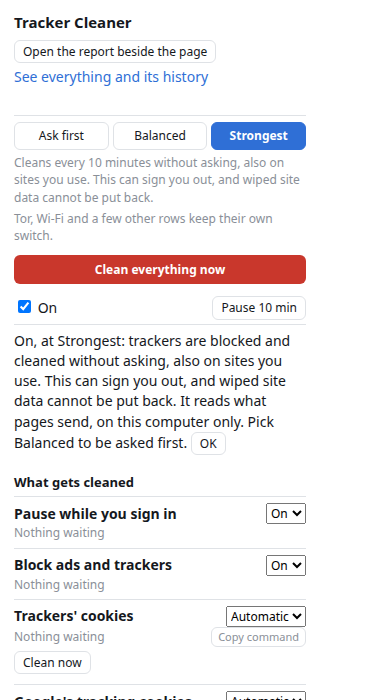
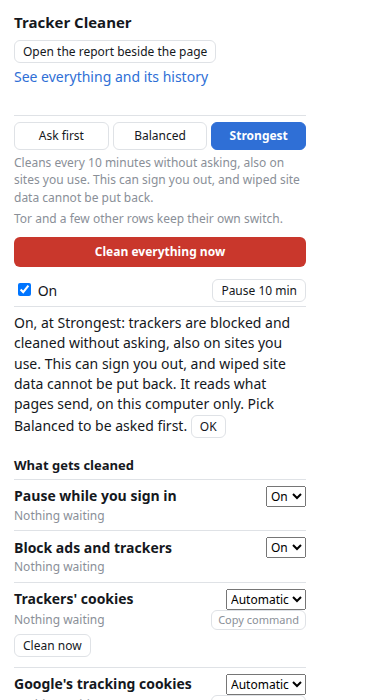
Docs for 1.32.1: one-table scorecard generated by tools/scorecard.js, PLAN.md moved to docs/build-log.md, README
- docs/scorecard.md: one table, T1..T36 and H1..H10, Strongest with no press and every question answered yes,
  written by tools/scorecard.js from lab/misses.json and lab/ff2-misses.json (both re-measured with 1.32.1:
  trip 35 of 36; A 7, AB 25, Q 5 at the end; hidden collector 6/10 stopped, as with 1.32).
- PLAN.md is docs/build-log.md, with a closing 1.32.1 section; references updated.
- README, docs/rows.md, docs/tools.md: no Wi-Fi, no git.sh, no extension-1.20, version 1.32.1, 735 tests.
- docs/popup.png retaken from 1.32.1 (the own-switch line no longer names Wi-Fi).

Changed region(s): [[0.0289, 0.3, 0.8105, 1.0], [0.55, 0.69, 0.8105, 0.93], [0.5789, 0.96, 0.8105, 1.0]]

diff --git a/tools/scorecard.js b/tools/scorecard.js
@@ -1,0 +1,55 @@
+#!/usr/bin/env node
+'use strict';
+// Writes docs/scorecard.md from what the lab trips measured: lab/misses.json (node test/lab/trip-cleaner.js) and
+// lab/ff2-misses.json (node test/lab/ff2-trip.js). Run it after both trips:  node tools/scorecard.js
+const fs = require('node:fs'), path = require('node:path');
+const root = path.join(__dirname, '..'), read = (f) => JSON.parse(fs.readFileSync(path.join(root, f), 'utf8'));
+
+// the short name of each way, in the words of the README
+const NAMES = {
+  T1: 'Browser cookie', T2: 'Sign-in cookie seen on other sites', T3: 'Tracking-kit cookie per site', T4: 'Click-ID cookie',
+  T5: 'Redirector cookie', T6: 'Matched pair of IDs between two companies', T7: 'Disguised subdomain', T8: 'Like-button frame cookie',
+  T9: 'ID in local storage', T10: 'Tab journey in session storage', T11: 'ID in IndexedDB', T12: 'ID in cache storage',
+  T13: 'Service worker holding the ID', T14: 'Storage totals', T15: 'Saved script with an ID', T16: 'Cache tag on an image',
+  T17: 'Compiled copy of the kit', T18: 'Saved site icons', T19: 'History and visited links', T20: 'Remembered servers',
+  T21: 'Forced-HTTPS list', T22: 'Notification permission', T23: 'Page address and referrer', T24: 'IP address, browser, language',
+  T25: 'Computed fingerprint', T26: 'Events with values', T27: 'Hashed e-mail', T28: 'Page-close beacon', T29: 'Outgoing-click ping',
+  T30: 'Redirect log', T31: "Like and share on the test network's own page", T32: '"Sign in with Testbook"',
+  T33: "Purchase reported by the shop's server", T34: 'Push subscription', T35: 'Typing and mouse rhythm', T36: 'Probe of programs on your computer',
+  F1: "Site's own ID cookie", F2: 'ID kept without a cookie, sent to the collector', F3: 'ID carried in the link between sites',
+  F4: 'Scripted hand-off between sites', F5: "Click record on the site's own server", F6: 'Fingerprint used to join sites',
+  F7: 'Cookie set during a sign-in', F8: 'Page address and referrer', F9: 'Probe of programs on your computer', F10: 'Cache tag on an image',
+};
+const FOLLOWS = '**still follows you**';
+
+function scorecard(misses, ff2) {
+  if (misses.extension !== ff2.extension) throw new Error(`the two trips measured different versions: ${misses.extension} and ${ff2.extension}`);
+  // one cell of the lab's table: what a run says of a way at the end
+  const cell = (run, id) => { const r = run.rows[id], c = run.counts;
+    if (!r || r.status === 'not built') return 'not built';
+    if (String(r.status).startsWith('kept on purpose')) return 'kept on purpose';
+    if (r.atEnd && !(c.simulated || []).includes(id)) return FOLLOWS;
+    return r.status === 'unlinked' ? 'arrives, not tied to you' : 'stopped'; };
+  const strong = misses.runs.A, yes = misses.runs.Q, ids = Object.keys(NAMES).filter((id) => id.startsWith('T'));
+  const rows = ids.map((id) => [id, NAMES[id], cell(strong, id), cell(yes, id)]);
+  for (const [run, col] of [[strong, 2], [yes, 3]]) {
+    const n = rows.filter((r) => r[col] === FOLLOWS).length;
+    if (n !== run.counts.atEnd) throw new Error(`${n} rows still follow, but the trip counted ${run.counts.atEnd}`); }
+  // the hidden collector: measured with everything on; it raises no question, so a yes changes nothing
+  if (ff2.questionsRaised) throw new Error('the hidden-collector trip raised questions: the yes column needs its own run');
+  for (const f of ff2.rows) { const v = f.stoppedGoingForward ? 'stopped' : FOLLOWS; rows.push(['H' + f.id.slice(1), NAMES[f.id], v, v]); }
+  const built = ids.length - ids.filter((id) => cell(strong, id) === 'not built').length;
+  return ['# Scorecard', '', '<!-- generated by tools/scorecard.js from lab/misses.json and lab/ff2-misses.json; do not edit by hand -->', '',
+    `Measured with version ${misses.extension} in a real Chrome against the local test lab in \`lab/\`: ${ids.length} ways a pretend social`
+      + ` network follows a visitor (T), and ${ff2.of} ways of a hidden collector behind each site's own address (H).`,
+    `Still following you at the end, at Strongest with no press: ${strong.counts.atEnd} of the ${built} T ways built and ${ff2.survives} of`
+      + ` ${ff2.of} H; with every question answered yes: ${yes.counts.atEnd} and ${ff2.survives}.`,
+    'The H ways are stopped from the moment the cleaner has seen the same code on two sites; the first contact always gets through.', '',
+    '| # | Way of following you | Strongest, no press | Every question answered yes |', '|---|---|---|---|',
+    ...rows.map((r) => `| ${r.join(' | ')} |`), ''].join('\n');
+}
+module.exports = { scorecard };
+if (require.main === module) {
+  fs.writeFileSync(path.join(root, 'docs', 'scorecard.md'), scorecard(read('lab/misses.json'), read('lab/ff2-misses.json')));
+  console.log('written: docs/scorecard.md');
+}

diff --git a/test/registry.test.js b/test/registry.test.js
@@ -1,11 +1,11 @@
 const test = require('node:test'), assert = require('node:assert'), fs = require('fs'), path = require('path');
 const { CAPS, GROUPS, cap, mayRun } = require('../extension/registry.js');
 
-// the capability table in PLAN.md is the specification: | C03 | name | status | default mode |
-const table = fs.readFileSync(path.join(__dirname, '../PLAN.md'), 'utf8').split('\n').map((l) => l.match(/^\| (C\d\d) \|.*\| *([a-z/]+)[^|]*\|$/)).filter(Boolean)
+// the capability table in docs/build-log.md is the specification: | C03 | name | status | default mode |
+const table = fs.readFileSync(path.join(__dirname, '../docs/build-log.md'), 'utf8').split('\n').map((l) => l.match(/^\| (C\d\d) \|.*\| *([a-z/]+)[^|]*\|$/)).filter(Boolean)
   .map((m) => ({ id: m[1], mode: m[2] === 'n/a' ? null : m[2] }));
 
-test('every capability of PLAN.md is registered once, with the planned default mode', () => {
+test('every capability of the build log is registered once, with the planned default mode', () => {
   assert.equal(table.length, 30);   // C24 (Wi-Fi) was removed in 1.32.1
   assert.deepEqual(CAPS.map((c) => c.id), table.map((t) => t.id));
   for (const t of table) assert.equal(cap(t.id).mode, t.mode, t.id);
@@ -38,7 +38,7 @@ test('master off stops everything, including tabs, cache and Tor', () => {
   for (const c of CAPS) assert.equal(mayRun(c.id, { master: false, modes }), 'no', c.id);
 });
 test('an unknown ID never runs', () => assert.equal(mayRun('C99', { master: true, modes: { C99: 'auto' } }), 'no'));
-// PLAN.md "Wording rules": everyday words first, the technical name second in brackets and only if useful.
+// docs/build-log.md "Wording rules": everyday words first, the technical name second in brackets and only if useful.
 // Where the history page and tools/inspect.js name the same thing, the popup row uses their words.
 test('each popup row is titled in everyday words, short enough for the popup', () => {
   assert.deepEqual(GROUPS.map((g) => [g.id, g.title]), [['signin', 'Pause while you sign in'], ['blocking', 'Block ads and trackers'], ['cookies', "Trackers' cookies"], ['google', "Google's tracking cookies"], ['othercookies', 'No cookies for others'], ['othertags', 'No page address for others'], ['local', 'Protect this computer'], ['shield', 'Experimental fingerprint blur'], ['crossid', 'Codes shared across sites'], ['params', 'Clean tags from links'], ['unknown', 'Trackers on no list'], ['bounce', 'Sites that pass you on'], ['own', "Trackers' own sites"], ['storage', 'Site data you chose'], ['permissions', 'Site rights you chose'], ['cache', 'Saved copies of pages'], ['allowlist', 'Keep only listed cookies'], ['tabs', 'Limit open tabs'], ['tor', 'Hide your address with Tor'], ['server', 'Reports to this computer']]);

diff --git a/extension/shield.js b/extension/shield.js
@@ -8,7 +8,7 @@
 // replace it, and only those copies are used afterwards. The key that decides the changes is 128 random bits made
 // here, new for every page that is loaded, and never leaves this function. Which values change depends on the key
 // AND on what was drawn. Replaced functions answer like Chrome's own (name, length, "native code", no prototype).
-// It makes recognising harder, not impossible: see PLAN.md (J5) for what a determined page can still do.
+// It makes recognising harder, not impossible: see docs/build-log.md (J5) for what a determined page can still do.
 (() => {
   const imul = Math.imul, mmax = Math.max, apply = Reflect.apply, define = Object.defineProperty, describe = Object.getOwnPropertyDescriptor;
   const fmix = (h) => { h ^= h >>> 16; h = imul(h, 0x85ebca6b); h ^= h >>> 13; h = imul(h, 0xc2b2ae35); return (h ^ h >>> 16) >>> 0; };
@@ -53,7 +53,7 @@
   // M4: the F6 join-key surfaces the shield now also blurs -- the width text measures to (the installed-font probe) and
   // the screen size. The per-page key makes the value differ each load, so a cross-site join by these cannot settle;
   // the change is a few hundredths to about a pixel, below what a layout needs. matchMedia, the pixel ratio and the
-  // window's own size are left alone: a page needs them and changing them breaks it (PLAN.md). Best effort, detectable.
+  // window's own size are left alone: a page needs them and changing them breaks it (docs/build-log.md). Best effort, detectable.
   const C2P = W.CanvasRenderingContext2D, O2P = W.OffscreenCanvasRenderingContext2D, TM = W.TextMetrics && TextMetrics.prototype, wd = TM && describe(TM, 'width');
   const metric = (orig, self, args) => { const tm = apply(orig, self, args);
     try { const w = apply(wd.get, tm, []), h = prf(key, (w * 64) >>> 0, 0); define(tm, 'width', { value: w + ((h % 257) - 128) / 100, configurable: true }); } catch {} return tm; };

diff --git a/test/ordering.test.js b/test/ordering.test.js
@@ -4,7 +4,7 @@
 // Set-Cookie in onHeadersReceived, while the structural rule C29 (net-rules.js) strips Set-Cookie on third-party
 // responses. Whether the extension's own onHeadersReceived sees the header before or after its own DNR strip is a
 // Chrome ordering detail the Node fake does not model. This test pins the code path as it is today; the real-Chrome
-// ordering is stated in PLAN.md as a known limitation, to be settled (and fixed if needed) in a later batch.
+// ordering is stated in docs/build-log.md as a known limitation, to be settled (and fixed if needed) in a later batch.
 const test = require('node:test'), assert = require('node:assert'), load = require('./load-background.js');
 const on = (o = {}) => ({ ...o, storage: { master: true, cacheClearedAt: 1.8e12, ...o.storage } });
 const answer = async (bg, host, page) => { await bg.answer({ url: `https://${host}/a`, initiator: `https://www.${page}`, type: 'script', responseHeaders: [{ name: 'Set-Cookie', value: 'tid=t-77ab12cd34ef; SameSite=None; Secure' }] }); await bg.settle(); };
@@ -24,5 +24,5 @@ test('the same Set-Cookie header is what C29 removes on a third-party response, 
   const r = netRules({ cookies: true })[0];
   assert.ok((r.action.responseHeaders || []).some((h) => h.header === 'set-cookie' && h.operation === 'remove'), 'C29 removes set-cookie third-party');
   // documented, not asserted about real Chrome: if the strip runs before the extension's own onHeadersReceived, e.ck
-  // never becomes true for a third party and this one-sighting path cannot fire on the wire. See PLAN.md.
+  // never becomes true for a third party and this one-sighting path cannot fire on the wire. See docs/build-log.md.
 });

diff --git a/test/browser/run.js b/test/browser/run.js
@@ -522,7 +522,7 @@ async function main() {
   process.exit(failed ? 1 : 0);
 }
 
-// ---- third run, fresh profile: what Chrome really does for the "to verify" items of PLAN.md ("Todo for 1.22").
+// ---- third run, fresh profile: what Chrome really does for the "to verify" items of docs/build-log.md ("Todo for 1.22").
 // These checks report (FOUND: ...); one fails only when it could not look at all. Where headless Chrome gives no
 // answer it says NOT DECIDED instead of guessing. Cleaning stays off in this run, so the extension changes nothing by
 // itself. Chrome's own files are read from the throwaway profile only, the SQLite ones read-only.
@@ -624,7 +624,7 @@ async function verify(offline) {
 }
 
 // ---- fourth run, fresh profile: the report of 1.23 (report.html), beside the page or in a tab of its own.
-// R1 and R2 report what Chrome really does for the two open questions of PLAN.md ("Todo for 1.23"): can the popup's
+// R1 and R2 report what Chrome really does for the two open questions of docs/build-log.md ("Todo for 1.23"): can the popup's
 // button open the side panel, and is the report told when another tab comes to the front.
 const portOpen = (port) => new Promise((done) => { const s = require('node:net').connect(port, '127.0.0.1'); s.on('connect', () => { s.destroy(); done(true); }); s.on('error', () => done(false)); });
 async function report(offline) {

diff --git a/extension/registry.js b/extension/registry.js
@@ -1,4 +1,4 @@
-// Every capability of Tracker Cleaner (table in PLAN.md) and the one gate that decides whether it may act.
+// Every capability of Tracker Cleaner (table in docs/build-log.md) and the one gate that decides whether it may act.
 // mode: what the group does until the user chooses: 'auto' runs by itself (1.25: every group that only touches what
 // follows you; what was done is in the log, and of it only deleted cookies can be put back), 'ask' waits for Approve,
 // 'off' does nothing, null = not an action group. destructive: it deletes, closes or reroutes something.
@@ -83,7 +83,7 @@ const gate = (id, settings, hold) => {
 // where the gate says 'run' (master stored on, not paused, no sign-in hold). What it may answer is narrowed further
 // per host in background.js (mayYes).
 const answersYes = (id, settings, hold) => modeOf(id, settings) === 'yes' && gate(id, settings, hold) === 'run';
-// One row per group, in the usability order of PLAN.md. 'control' capabilities have no mode and no row.
+// One row per group, in the usability order of docs/build-log.md. 'control' capabilities have no mode and no row.
 // says: what the group does for you, in one sentence anyone can read (the report shows it under the title).
 const GROUPS = [
   ['signin', 'Pause while you sign in', 'Nothing of a site is deleted while you sign in there, and for five minutes after.'],

diff --git a/test/q-batch.test.js b/test/q-batch.test.js
@@ -1,4 +1,4 @@
-// Q-batch (1.32): the sixth adversarial audit's findings, each pinned as the SAFE behaviour (PLAN.md "Q-batch").
+// Q-batch (1.32): the sixth adversarial audit's findings, each pinned as the SAFE behaviour (docs/build-log.md "Q-batch").
 const test = require('node:test'), assert = require('node:assert'), load = require('./load-background.js');
 const strong = (o = {}) => ({ tabs: [{ id: 1, active: true, url: 'https://news1.example/a' }, { id: 2, url: 'https://news2.example/b' }], ...o,
   storage: { master: true, cacheClearedAt: 1.8e12, level: 'strong', ...o.storage } });

diff --git a/docs/scorecard.md b/docs/scorecard.md
@@ -1,59 +1,56 @@
 # Scorecard
 
-Measured with version 1.32 in a real Chrome against the test lab in `lab/` (a pretend social network that follows a visitor in 36 ways, plus a second tracker hidden behind each site's own address). "No press" means a fresh install left alone.
+<!-- generated by tools/scorecard.js from lab/misses.json and lab/ff2-misses.json; do not edit by hand -->
 
-| # | Way of following you | Strongest, no press | Balanced, no press | Every question answered yes |
-|---|---|---|---|---|
-| T1 | Browser cookie | stopped | stopped | stopped |
-| T2 | Sign-in cookie seen on other sites | stopped | stopped | stopped |
-| T3 | Tracking-kit cookie per site | arrives, not tied to you | **still follows you** | stopped |
-| T4 | Click-ID cookie | stopped | **still follows you** | stopped |
-| T5 | Redirector cookie | stopped | **still follows you** | stopped |
-| T6 | Matched pair of IDs between two companies | arrives, not tied to you | **still follows you** | stopped |
-| T7 | Disguised subdomain | stopped | **still follows you** | stopped |
-| T8 | Like-button frame cookie | stopped | stopped | stopped |
-| T9 | ID in local storage | stopped by the end | **still follows you** | stopped |
-| T10 | Tab journey in session storage | arrives, not tied to you | **still follows you** | stopped |
-| T11 | ID in IndexedDB | arrives, not tied to you | **still follows you** | stopped |
-| T12 | ID in cache storage | arrives, not tied to you | **still follows you** | stopped |
-| T13 | Service worker holding the ID | **still follows you** | **still follows you** | stopped |
-| T14 | Storage totals | arrives, not tied to you | **still follows you** | stopped |
-| T15 | Saved script with an ID | arrives, not tied to you | **still follows you** | stopped |
-| T16 | Cache tag on an image | arrives, not tied to you | arrives, not tied to you | stopped |
-| T17 | Compiled copy of the kit | stopped by the end | **still follows you** | stopped |
-| T18 | Saved site icons | your own record, kept | your own record, kept | your own record, kept |
-| T19 | History and visited links | your own record, kept | your own record, kept | your own record, kept |
-| T20 | Remembered servers | stopped by the end | stopped by the end | stopped |
-| T21 | Forced-HTTPS list | stopped | stopped | stopped |
-| T22 | Notification permission | **still follows you** | **still follows you** | stopped |
-| T23 | Page address and referrer | arrives, not tied to you | **still follows you** | stopped |
-| T24 | IP address, browser, language | stopped by the end | **still follows you** | stopped |
-| T25 | Computed fingerprint | arrives, not tied to you | **still follows you** | stopped |
-| T26 | Events with values | stopped | **still follows you** | stopped |
-| T27 | Hashed e-mail | **still follows you** | **still follows you** | **still follows you** |
-| T28 | Page-close beacon | stopped | stopped | stopped |
-| T29 | Outgoing-click ping | stopped | stopped | stopped |
-| T30 | Redirect log | **still follows you** | **still follows you** | **still follows you** |
-| T31 | Like and share on the test network's own page | **still follows you** | **still follows you** | **still follows you** |
-| T32 | "Sign in with Testbook" | **still follows you** | **still follows you** | **still follows you** |
-| T33 | Purchase reported by the shop's server | **still follows you** | **still follows you** | **still follows you** |
-| T34 | Push subscription | not built | not built | not built |
-| T35 | Typing and mouse rhythm | stopped | **still follows you** | stopped |
-| T36 | Probe of programs on your computer | arrives, not tied to you | **still follows you** | stopped |
+Measured with version 1.32.1 in a real Chrome against the local test lab in `lab/`: 36 ways a pretend social network follows a visitor (T), and 10 ways of a hidden collector behind each site's own address (H).
+Still following you at the end, at Strongest with no press: 7 of the 35 T ways built and 4 of 10 H; with every question answered yes: 5 and 4.
+The H ways are stopped from the moment the cleaner has seen the same code on two sites; the first contact always gets through.
 
-## The hidden collector
-
-All ten work on first contact. "Stopped" means from the moment the cleaner has seen the same code on two sites, at Balanced and Strongest alike.
-
-| # | Way | After first contact |
-|---|---|---|
-| F1 | Site's own ID cookie | stopped |
-| F2 | ID kept without a cookie, sent to the collector | stopped |
-| F3 | ID carried in the link between sites | **still follows you** |
-| F4 | Scripted hand-off between sites | **still follows you** |
-| F5 | Click record on the site's own server | **still follows you** |
-| F6 | Fingerprint used to join sites | stopped |
-| F7 | Cookie set during a sign-in | **still follows you** |
-| F8 | Page address and referrer | stopped |
-| F9 | Probe of programs on your computer | stopped |
-| F10 | Cache tag on an image | stopped |
+| # | Way of following you | Strongest, no press | Every question answered yes |
+|---|---|---|---|
+| T1 | Browser cookie | stopped | stopped |
+| T2 | Sign-in cookie seen on other sites | stopped | stopped |
+| T3 | Tracking-kit cookie per site | arrives, not tied to you | stopped |
+| T4 | Click-ID cookie | stopped | stopped |
+| T5 | Redirector cookie | stopped | stopped |
+| T6 | Matched pair of IDs between two companies | arrives, not tied to you | stopped |
+| T7 | Disguised subdomain | stopped | stopped |
+| T8 | Like-button frame cookie | stopped | stopped |
+| T9 | ID in local storage | stopped | stopped |
+| T10 | Tab journey in session storage | arrives, not tied to you | stopped |
+| T11 | ID in IndexedDB | arrives, not tied to you | stopped |
+| T12 | ID in cache storage | arrives, not tied to you | stopped |
+| T13 | Service worker holding the ID | **still follows you** | stopped |
+| T14 | Storage totals | arrives, not tied to you | stopped |
+| T15 | Saved script with an ID | arrives, not tied to you | stopped |
+| T16 | Cache tag on an image | arrives, not tied to you | stopped |
+| T17 | Compiled copy of the kit | stopped | stopped |
+| T18 | Saved site icons | kept on purpose | kept on purpose |
+| T19 | History and visited links | kept on purpose | kept on purpose |
+| T20 | Remembered servers | stopped | stopped |
+| T21 | Forced-HTTPS list | stopped | stopped |
+| T22 | Notification permission | **still follows you** | stopped |
+| T23 | Page address and referrer | arrives, not tied to you | stopped |
+| T24 | IP address, browser, language | stopped | stopped |
+| T25 | Computed fingerprint | arrives, not tied to you | stopped |
+| T26 | Events with values | stopped | stopped |
+| T27 | Hashed e-mail | **still follows you** | **still follows you** |
+| T28 | Page-close beacon | stopped | stopped |
+| T29 | Outgoing-click ping | stopped | stopped |
+| T30 | Redirect log | **still follows you** | **still follows you** |
+| T31 | Like and share on the test network's own page | **still follows you** | **still follows you** |
+| T32 | "Sign in with Testbook" | **still follows you** | **still follows you** |
+| T33 | Purchase reported by the shop's server | **still follows you** | **still follows you** |
+| T34 | Push subscription | not built | not built |
+| T35 | Typing and mouse rhythm | stopped | stopped |
+| T36 | Probe of programs on your computer | arrives, not tied to you | stopped |
+| H1 | Site's own ID cookie | stopped | stopped |
+| H2 | ID kept without a cookie, sent to the collector | stopped | stopped |
+| H3 | ID carried in the link between sites | **still follows you** | **still follows you** |
+| H4 | Scripted hand-off between sites | **still follows you** | **still follows you** |
+| H5 | Click record on the site's own server | **still follows you** | **still follows you** |
+| H6 | Fingerprint used to join sites | stopped | stopped |
+| H7 | Cookie set during a sign-in | **still follows you** | **still follows you** |
+| H8 | Page address and referrer | stopped | stopped |
+| H9 | Probe of programs on your computer | stopped | stopped |
+| H10 | Cache tag on an image | stopped | stopped |

diff --git a/README.md b/README.md
@@ -29,7 +29,7 @@ There is no store listing; you load the folder.
 1. Download or clone this repository.
 2. Open `chrome://extensions` and switch on **Developer mode** (top right).
 3. Press **Load unpacked** and choose the `extension/` folder.
-4. Open the popup from the toolbar. It should say version 1.32.
+4. Open the popup from the toolbar. It should say version 1.32.1.
 
 To update, pull the new files and press the reload arrow on the extension's card. Only a fresh install starts
 at Strongest; an update keeps your settings.
@@ -53,8 +53,7 @@ if questions are waiting it names the sites first.
 - **A blocked or skipped company**: "Let it through". It then stays let through, for that whole site.
 - **One site misbehaves**: "Don't clean on this site" in the popup. The cleaner then leaves it alone completely.
 - **Everything**: untick "On", or "Pause 10 min".
-- **Not undoable**: emptied site data, cleared saved copies, a forgotten Wi-Fi network, cleared history. The
-  popup says so before each.
+- **Not undoable**: emptied site data, cleared saved copies, cleared history. The popup says so before each.
 
 Cookies that keep you signed in are never deleted, sign-in pages of Google, Microsoft and Apple are never
 touched, and nothing is deleted while you are signing in.
@@ -73,7 +72,7 @@ Of the 35 ways that were built, still following you at the end:
 | Any setting, every question answered yes | 5 |
 
 Against the hidden tracker the cleaner stops 6 of 10 ways, after the first contact.
-The full list, one row per way: [docs/scorecard.md](docs/scorecard.md).
+Every way, one row each, in one table: [docs/scorecard.md](docs/scorecard.md).
 
 ## What it cannot stop
 
@@ -103,22 +102,21 @@ Known weak spots, found by adversarial review and left open on purpose:
 
 ## For developers
 
-    npm test              # 808 unit tests, Node 22, no packages, no browser
+    npm test              # 735 unit tests, Node 22, no packages, no browser
     npm run test:lab      # the lab walk with the cleaner off (needs google-chrome)
     node test/lab/trip-cleaner.js   # the same walk with the cleaner on
-    node test/lab/ff2-trip.js       # the hidden-collector tracker
+    node test/lab/ff2-trip.js       # the hidden-collector lab
+    node tools/scorecard.js         # docs/scorecard.md from the last two walks
 
 - `extension/` the extension. `background.js` is the service worker; `registry.js` holds the rows, the
   strength levels and the one gate every action passes.
 - `security/trackers.js` the lists, edited by hand; `node extension/build.js` regenerates the rule files.
 - `lab/` the test trackers. `test/` the tests, with a stand-in for the `chrome` API.
-- `extension-1.20/` an old version the tests compare against.
-- `wifi-helper/` an optional local program for the Wi-Fi row.
-- [docs/rows.md](docs/rows.md) what each row does, in full. [docs/tools.md](docs/tools.md) the command that
-  reads Chrome's own files, the report panel and the Wi-Fi helper. `PLAN.md` the build log, including every
-  audit finding.
+- `tools/inspect.js` the command that reads Chrome's own files; `tools/scorecard.js` writes the scorecard.
+- [docs/rows.md](docs/rows.md) what each row does, in full. [docs/tools.md](docs/tools.md) the command and the
+  report panel. [docs/build-log.md](docs/build-log.md) the build log, including every audit finding.
 
-`git.sh` and a few test helpers contain paths from the author's machine; adjust them or use plain `git`.
+Lab browsers get throwaway profiles in the system temp folder, or in `TC_BROWSER_TMP` when set.
 
 ## Licence
 

diff --git a/docs/build-log.md b/docs/build-log.md
@@ -1,7 +1,10 @@
-# Tracker Cleaner: plan for 1.21
+# Tracker Cleaner: build log
+
+Written while building 1.21 to 1.32, kept as it was then, with the lab's names as renamed for 1.32.1 (see the end).
+It started as the plan for 1.21.
 
 Source of 1.20: `~/Downloads/tracker-cleaner-1.20-source.zip` (a Chrome MV3 extension, top folder `chrome-cleaner/`).
-Layout of this repo: `extension/` (the extension), `test/` (Node tests), `wifi-helper/` (local script), `PLAN.md`.
+Layout of this repo then: `extension/` (the extension), `test/` (Node tests), `wifi-helper/` (local script), `PLAN.md` (now `docs/build-log.md`).
 `git` is not installed on this machine: do not try to commit. Keep `extension-1.20/` as the untouched baseline copy instead.
 
 ## Why this work exists
@@ -1482,3 +1485,12 @@ finding below got a test of the SAFE behaviour first (test/q-batch.test.js), the
   handed on), so nothing is blocked (audit7 E1, E2); at Strongest the forced-HTTPS entries are dropped every 10 minutes
   with the cache; a shared-hosting name missing from the built-in table makes its tenants one site for `unauto` (one
   "Let it through" then covers them all: it fails safe).
+
+### 1.32.1: made ready to publish
+
+- Removed: the Wi-Fi row (C24, `wifi-helper/`, the `nativeMessaging` permission, the inspector's `wifi` command and
+  their tests), the 1.20 baseline `extension-1.20/` and the tests that only compared against it, `TESTING.md`, `git.sh`,
+  and the generated `test/fixtures/profile-site/`. Nothing else in the extension changed.
+- The lab's pretend network is now called Testbook (`testbook.localhost`, `testbook.test`), and its second tracker
+  the hidden collector; this log uses the new names throughout.
+- This file moved from `PLAN.md` to `docs/build-log.md`; `docs/scorecard.md` is generated by `tools/scorecard.js`.

diff --git a/docs/rows.md b/docs/rows.md
@@ -8,7 +8,7 @@ The popup keeps one short line per row; the full explanation is here.
   by themselves; Google's own cookies, companies on no list and sites that only pass you along wait for your answer.
   Strongest: every cleaning row works by itself, every 10 minutes, and the two question rows below answer yes by
   themselves, at most 10 an hour, also for a site you use (see below). The sign-in pause, Tor, the tab limit,
-  keeping only listed cookies, Wi-Fi networks and the reports keep their own switch.
+  keeping only listed cookies and the reports keep their own switch.
 - **Pause while you sign in.** While you sign in somewhere, and for five minutes after, nothing of that sign-in's
   site (and of the site you came from) is deleted, so the sign-in cannot break.
 - **Block ads and trackers.** Pages are stopped from calling the companies that follow you from site to site, and
@@ -48,8 +48,6 @@ The popup keeps one short line per row; the full explanation is here.
   ticked "Keep removing what it saves". Never a site you turned off.
 - **Site data you chose / Site rights you chose.** Only for the sites you chose yourself: what they saved is emptied,
   or they are stopped from things such as notifications or the camera.
-- **Old Wi-Fi networks.** Networks this computer has not used for 30 days are forgotten, after your press; this
-  cannot be undone.
 - **Saved copies of pages.** All copies of pages Chrome saved to load them faster are thrown away once a day and each
   time Chrome starts, at Strongest every 10 minutes, and besides that at most once an hour when a host is blocked
   (never within 10 minutes of another clearing). At Strongest that means the whole cache is gone every 10 minutes:

diff --git a/docs/tools.md b/docs/tools.md
@@ -5,7 +5,7 @@
     node tools/inspect.js cookies
 
 It reads Chrome's own files and changes nothing; Chrome can stay open. In place of `cookies`: `cache`, `code-cache`,
-`storage`, `servers`, `permissions`, `tor`, `wifi`. Each answers what is there now, what is kept and why, what would be
+`storage`, `servers`, `permissions`, `tor`. Each answers what is there now, what is kept and why, what would be
 removed, and what cleaning costs you. `--list` names each item, `--raw` prints the plain command underneath so you can
 run it yourself, `--json` gives the same as data. It judges by the built-in lists only: your own exceptions and
 switches live inside Chrome. Needs `python3` and `jq`. `tor` also says what your internet provider can see; it
@@ -32,10 +32,3 @@ what is kept and why, what was removed and when, and what cleaning costs you, in
 a "Copy command" button to check each block from a terminal. The history is numbers and cookie names for 30 days,
 kept inside the extension on this computer and nowhere else; "Clear history" empties it. The button "Check how
 websites see me" asks check.torproject.org once, from inside Chrome, and only when pressed.
-
-## Wi-Fi helper
-
-Chrome cannot see saved Wi-Fi networks, so `wifi-helper/` does that part: it lists the networks not
-used for 30 days and removes only those you approve, from a terminal (`node wifi-helper/cli.js list`)
-or from the popup row "Unused Wi-Fi networks" once `wifi-helper/install.sh <extension id>` has
-registered it with Chrome. It is optional and never automatic. See `../wifi-helper/README.md`.
